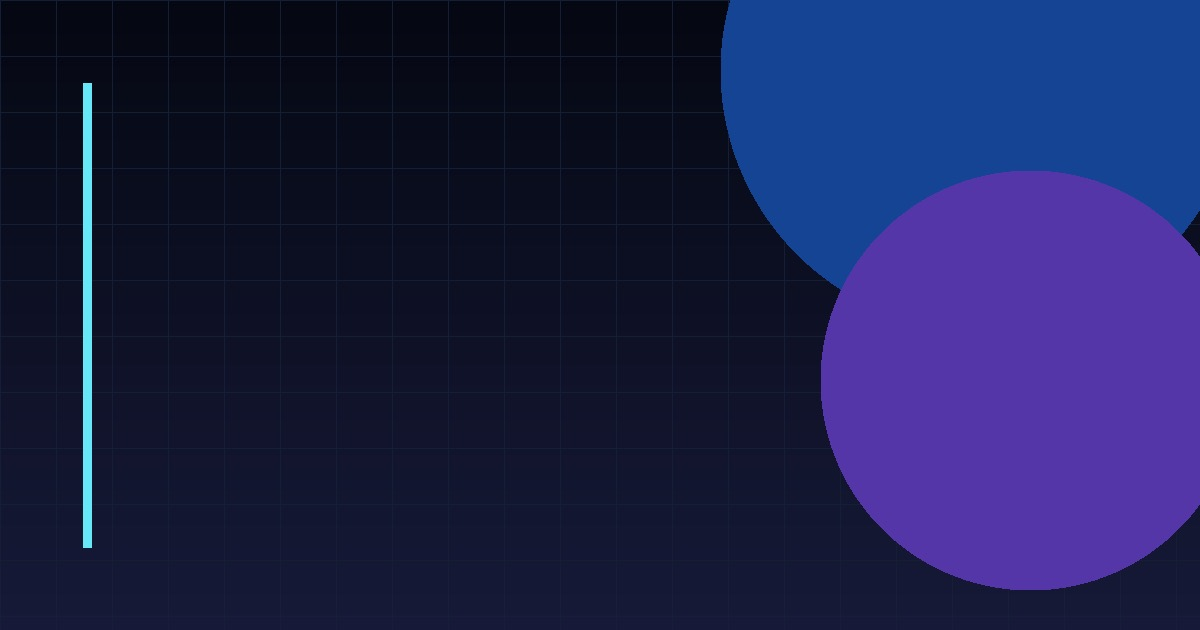
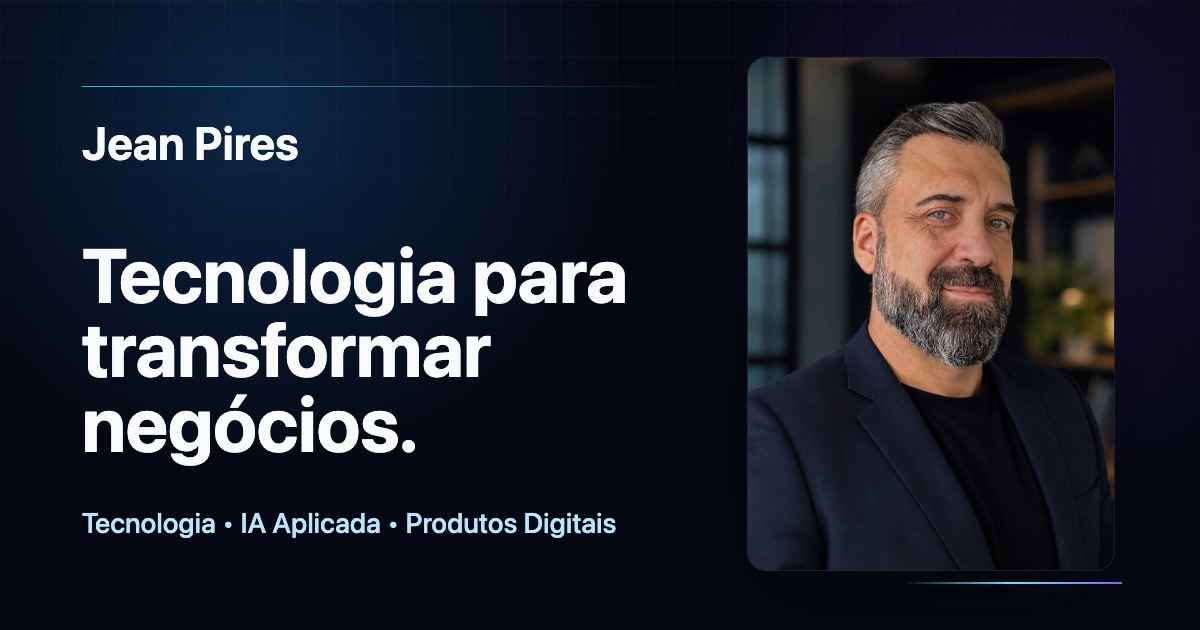
feat: add real brand assets and professional portrait

diff --git a/src/app/page.tsx b/src/app/page.tsx
@@ -16,7 +16,7 @@ import { ProjectGrid } from "@/components/project-grid";
 import { SectionHeading } from "@/components/section-heading";
 import { heroImage } from "@/config/assets";
 import { currentWork } from "@/data/current-work";
-import { findLogoPath, publicAssetExists } from "@/lib/public-assets";
+import { findLogoPath } from "@/lib/public-assets";
 
 const services = [
   {
@@ -58,11 +58,13 @@ function WorkLogo({ item }: { item: (typeof currentWork)[number] }) {
     return (
       <Image
         src={logoPath}
-        alt={`Logo ${item.company}`}
-        width={160}
-        height={48}
-        className="max-h-12 w-auto object-contain"
-        unoptimized={logoPath.endsWith(".svg")}
+        alt={item.logoAlt}
+        width={176}
+        height={64}
+        sizes="176px"
+        className="h-auto max-h-12 w-auto max-w-[10.5rem] object-contain"
+        style={{ transform: `scale(${item.logoScale})` }}
+        unoptimized
       />
     );
   }
@@ -75,10 +77,6 @@ function WorkLogo({ item }: { item: (typeof currentWork)[number] }) {
 }
 
 export default function Home() {
-  const portraitSrc = publicAssetExists(heroImage.primary)
-    ? heroImage.primary
-    : heroImage.fallback;
-
   return (
     <main>
       <section className="relative overflow-hidden">
@@ -124,12 +122,12 @@ export default function Home() {
           <div className="relative z-10 mx-auto w-full max-w-[15.5rem] sm:max-w-sm lg:max-w-none">
             <div className="relative aspect-[4/5] overflow-hidden rounded-lg bg-[#091120] shadow-2xl shadow-black/20 ring-1 ring-white/10">
               <Image
-                src={portraitSrc}
+                src={heroImage.src}
                 alt={heroImage.alt}
                 fill
                 priority
                 sizes="(min-width: 1024px) 38vw, 90vw"
-                className="object-cover object-center"
+                className="object-cover object-[58%_26%]"
               />
             </div>
           </div>
@@ -173,8 +171,10 @@ export default function Home() {
                 key={item.company}
                 className="rounded-lg border border-white/10 bg-white/[0.03] p-6"
               >
-                <div className="mb-8 flex h-14 items-center">
-                  <WorkLogo item={item} />
+                <div className="mb-8 flex h-16 items-center">
+                  <div className="inline-flex h-16 w-36 items-center justify-center overflow-hidden rounded-md border border-white/10 bg-white px-4 py-2">
+                    <WorkLogo item={item} />
+                  </div>
                 </div>
                 <h3 className="text-xl font-semibold text-white">
                   {item.company}

diff --git a/src/data/current-work.ts b/src/data/current-work.ts
@@ -3,6 +3,8 @@ export type CurrentWork = {
   role: string;
   description: string;
   logoBasePath: string;
+  logoAlt: string;
+  logoScale: number;
   fallbackMark: string;
 };
 
@@ -13,6 +15,8 @@ export const currentWork: CurrentWork[] = [
     description:
       "Tecnologia, desenvolvimento de produtos digitais, inteligência artificial aplicada e transformação de ideias em software.",
     logoBasePath: "/logos/code-synergy",
+    logoAlt: "Code Synergy",
+    logoScale: 2.35,
     fallbackMark: "CS",
   },
   {
@@ -21,6 +25,8 @@ export const currentWork: CurrentWork[] = [
     description:
       "Estratégia tecnológica, produtos, plataformas e infraestrutura para um ecossistema conectado ao mercado de franquias.",
     logoBasePath: "/logos/plugz",
+    logoAlt: "PlugZ",
+    logoScale: 0.92,
     fallbackMark: "PZ",
   },
   {
@@ -29,6 +35,8 @@ export const currentWork: CurrentWork[] = [
     description:
       "Ambiente de experimentação, desenvolvimento e aplicação prática de inteligência artificial.",
     logoBasePath: "/logos/iahub-onovolab",
+    logoAlt: "IAHub ONOVOLAB",
+    logoScale: 2.8,
     fallbackMark: "IA",
   },
 ];

diff --git a/src/config/assets.ts b/src/config/assets.ts
@@ -1,6 +1,5 @@
 export const heroImage = {
-  primary: "/images/jean-pires.jpg",
-  fallback: "/jean-placeholder.jpg",
+  src: "/images/jean-pires.jpg",
   alt: "Jean Pires",
 };
 
